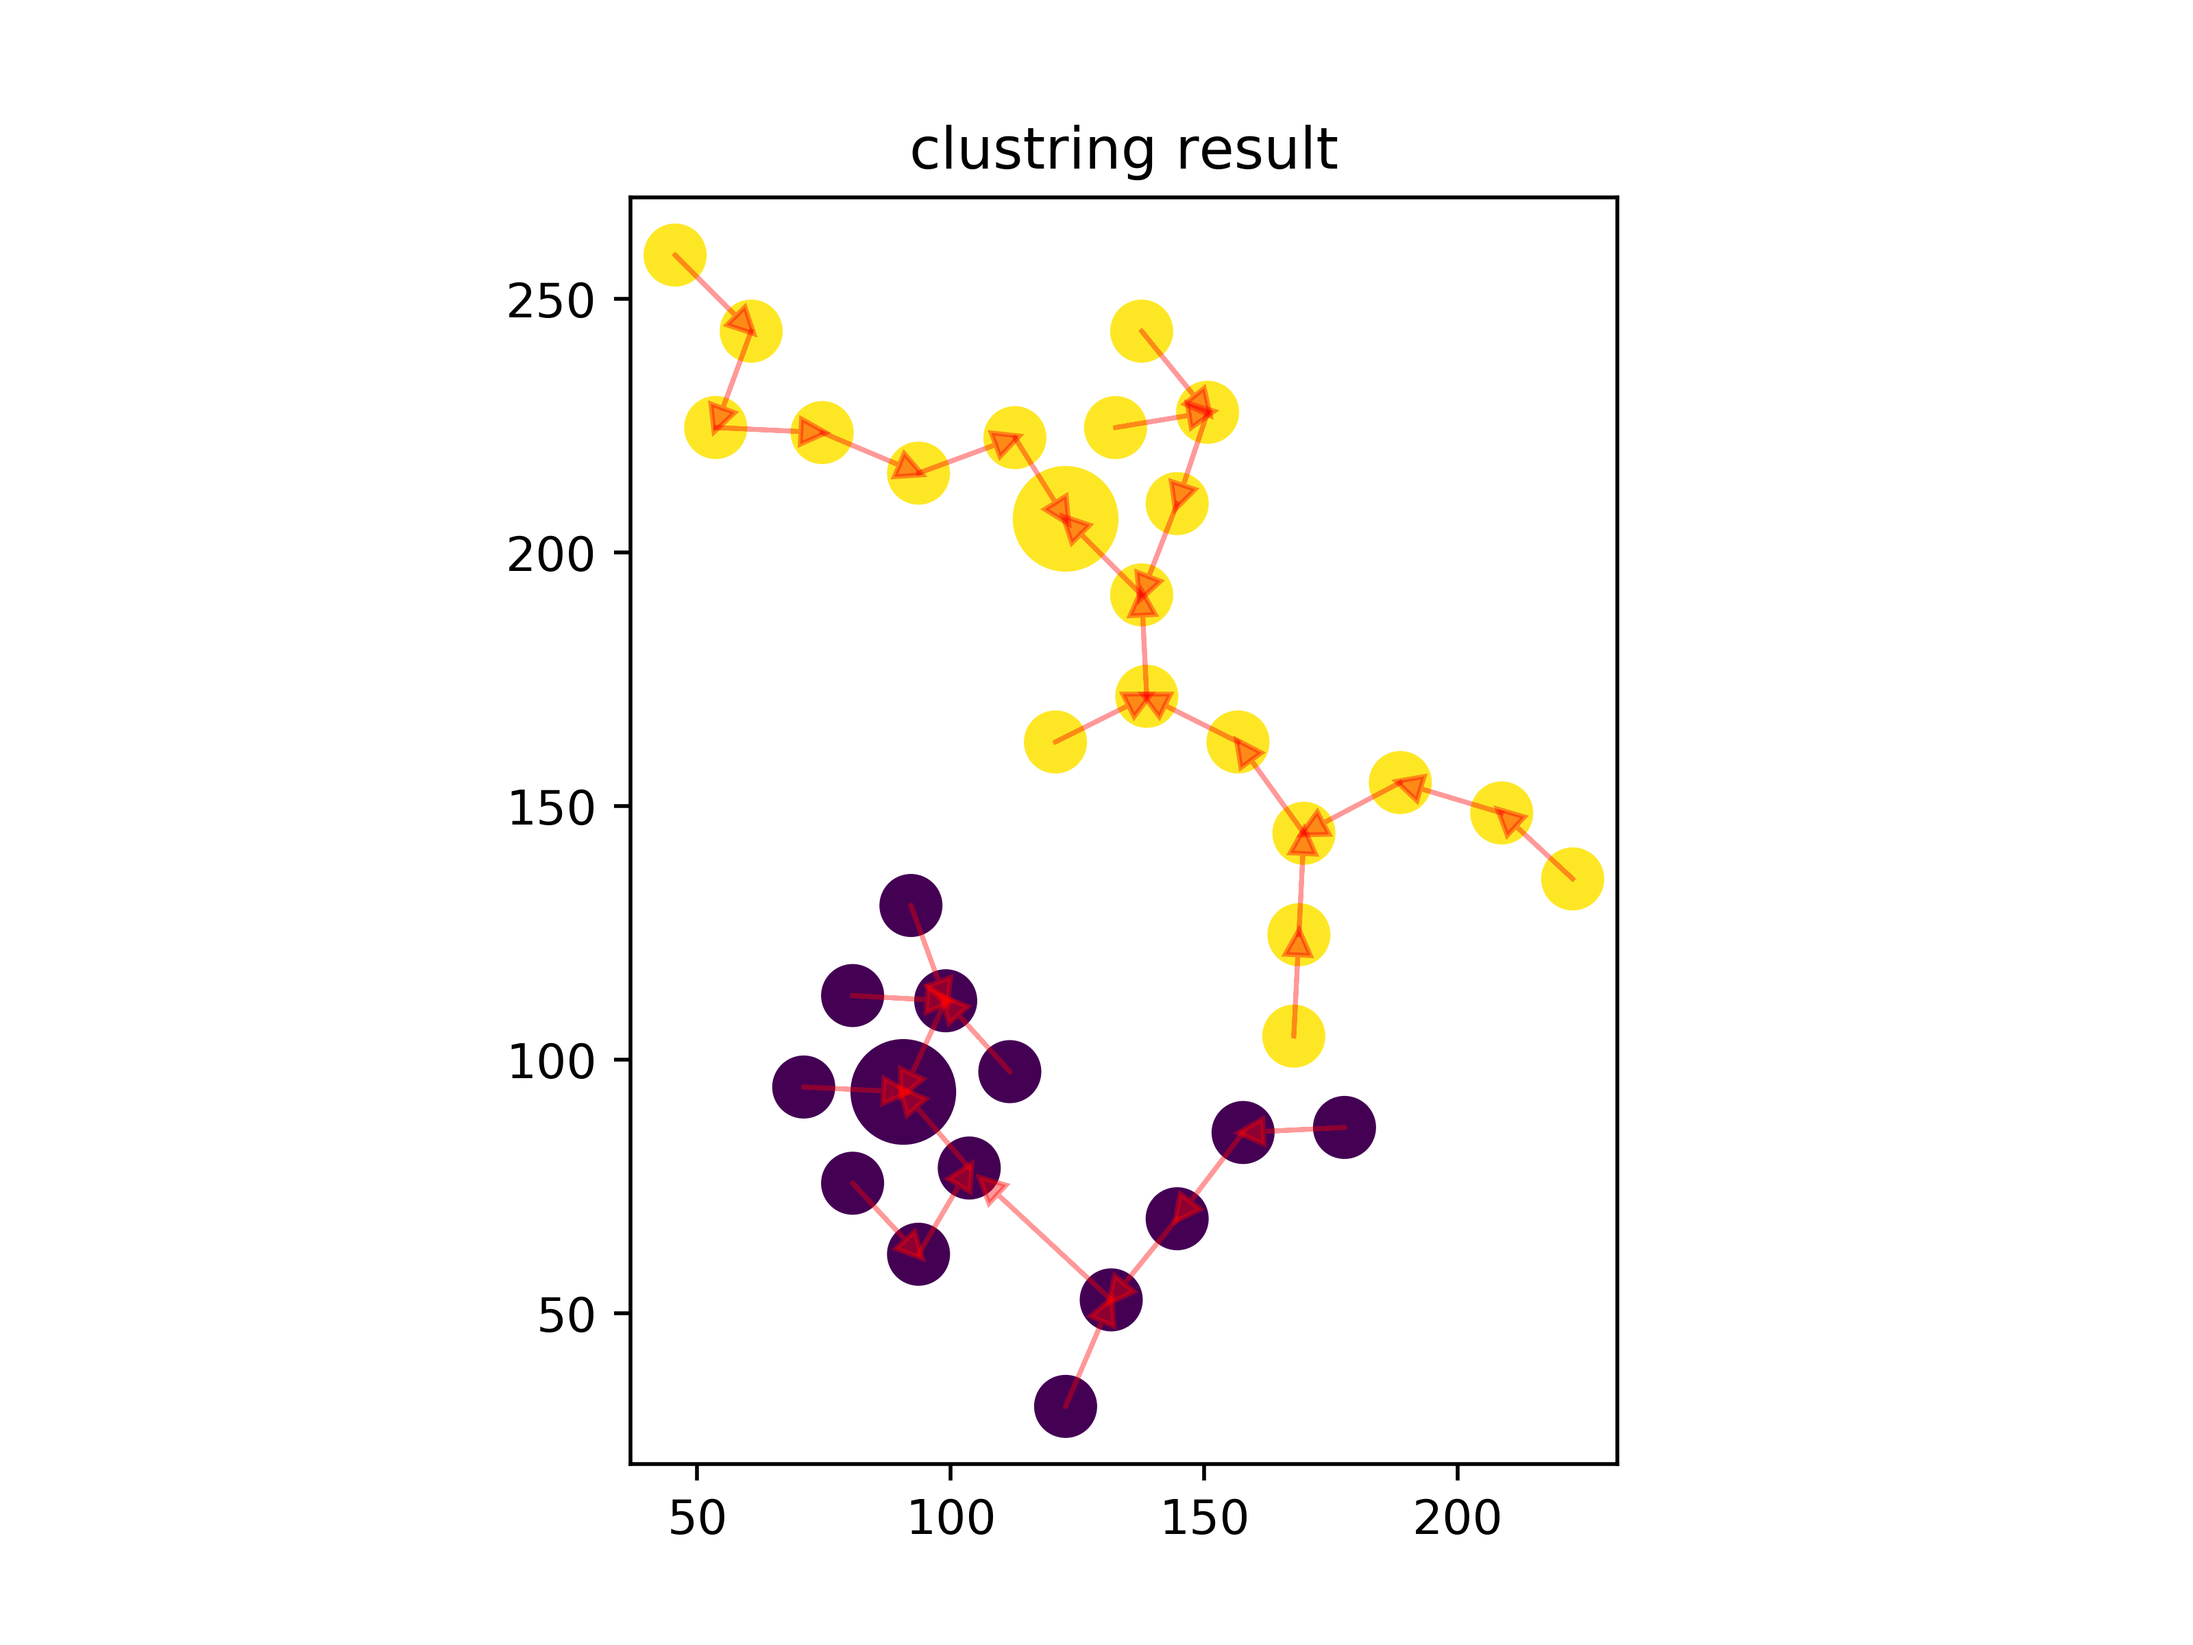
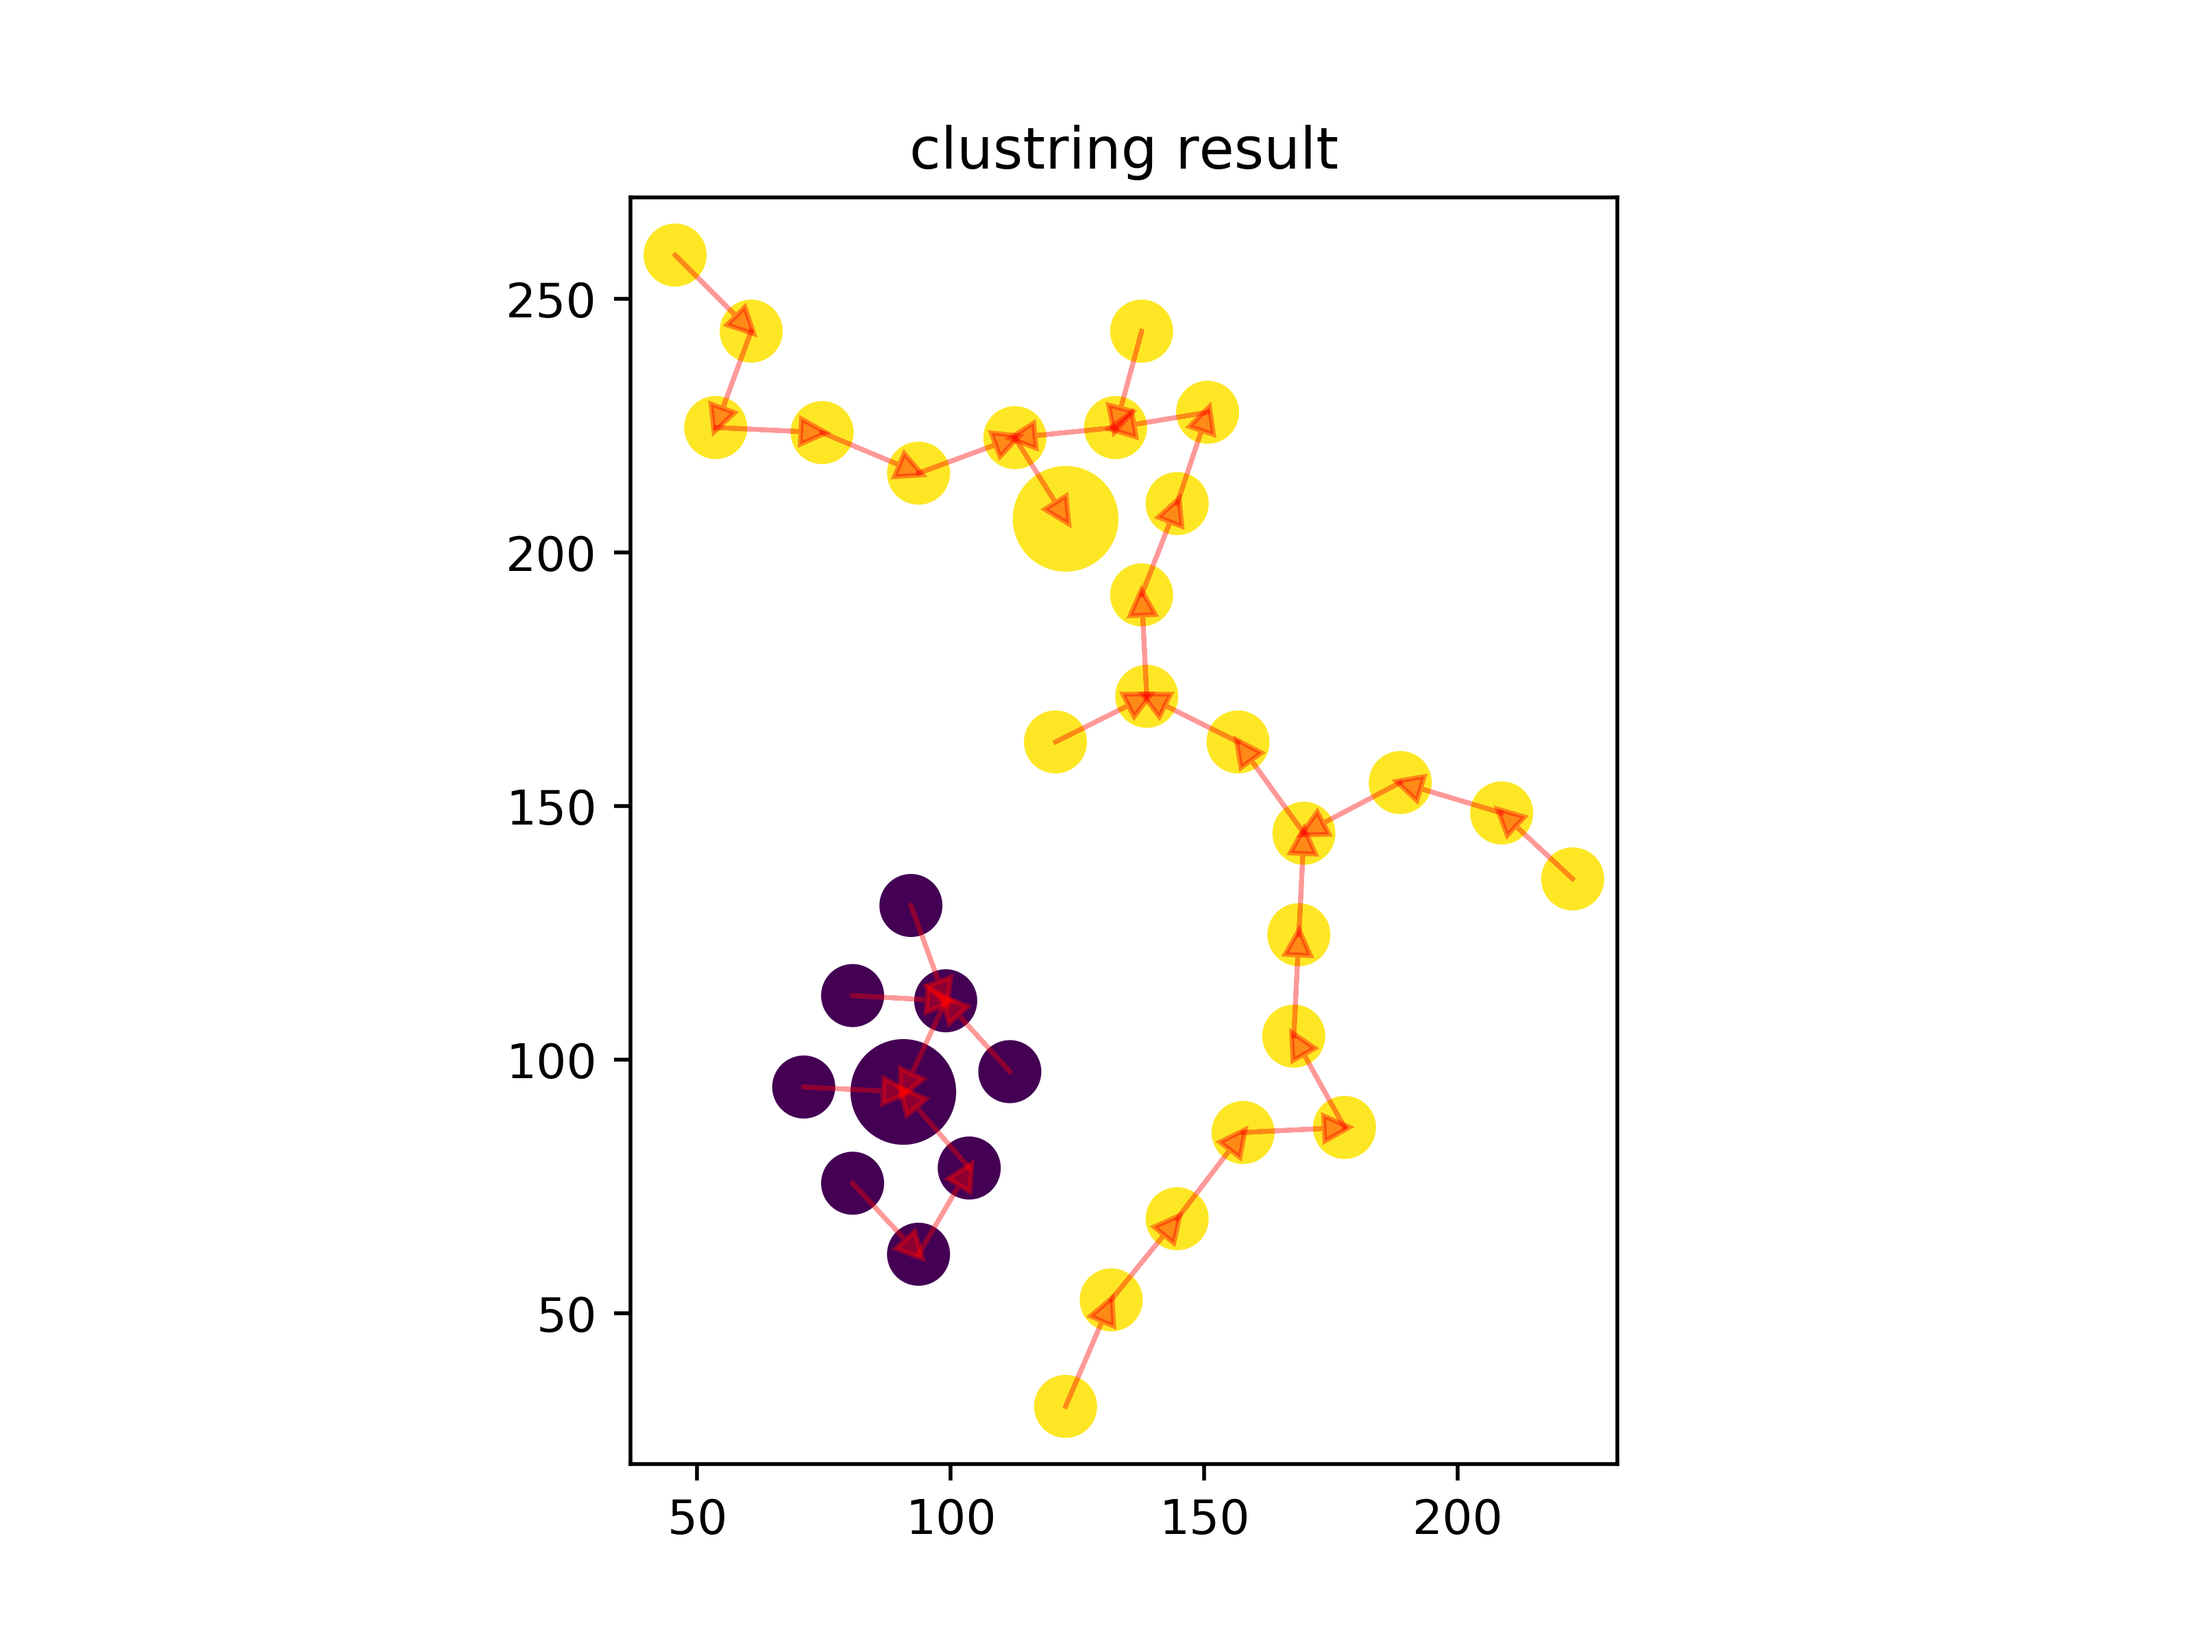
bugfix

diff --git a/AdvancedCDP.py b/AdvancedCDP.py
@@ -212,6 +212,7 @@ def clustring_DiegoGeneric(n_centre_id:List[Point], pts:List[Point], display:boo
         inqueue.add(centre_id)
 
     while pq:
+        heapq.heapify(pq)
         top = heapq.heappop(pq)
         inqueue.remove(top.id)
         solved.add(top.id)
@@ -251,7 +252,7 @@ def clustring_DiegoGeneric(n_centre_id:List[Point], pts:List[Point], display:boo
         plt.scatter(x, y, s=DISPLAY_SCATTER_SIZE, c=labels, marker='o')
         plt.scatter(cx, cy, s=DISPLAY_SCATTER_SIZE*3, c=clabels, marker='o')
         plt.axis('scaled')
-        plt.savefig('clustring_ours_result.png', dpi=500)
+        plt.savefig('clustring_DiegoGeneric_result.png', dpi=500)
         plt.show()
 
 def clustring_ours(n_centre_id:List[Point], pts:List[Point], display:bool=True,arrow:bool=False):
@@ -269,6 +270,7 @@ def clustring_ours(n_centre_id:List[Point], pts:List[Point], display:bool=True,a
         inqueue.add(centre_id)
 
     while pq:
+        heapq.heapify(pq)
         top = heapq.heappop(pq)
         inqueue.remove(top.id)
         solved.add(top.id)
@@ -308,7 +310,7 @@ def clustring_ours(n_centre_id:List[Point], pts:List[Point], display:bool=True,a
         plt.scatter(x, y, s=DISPLAY_SCATTER_SIZE, c=labels, marker='o')
         plt.scatter(cx, cy, s=DISPLAY_SCATTER_SIZE*3, c=clabels, marker='o')
         plt.axis('scaled')
-        plt.savefig('clustring_DiegoGeneric_result.png', dpi=500)
+        plt.savefig('clustring_ours_result.png', dpi=500)
         plt.show()
 
 
